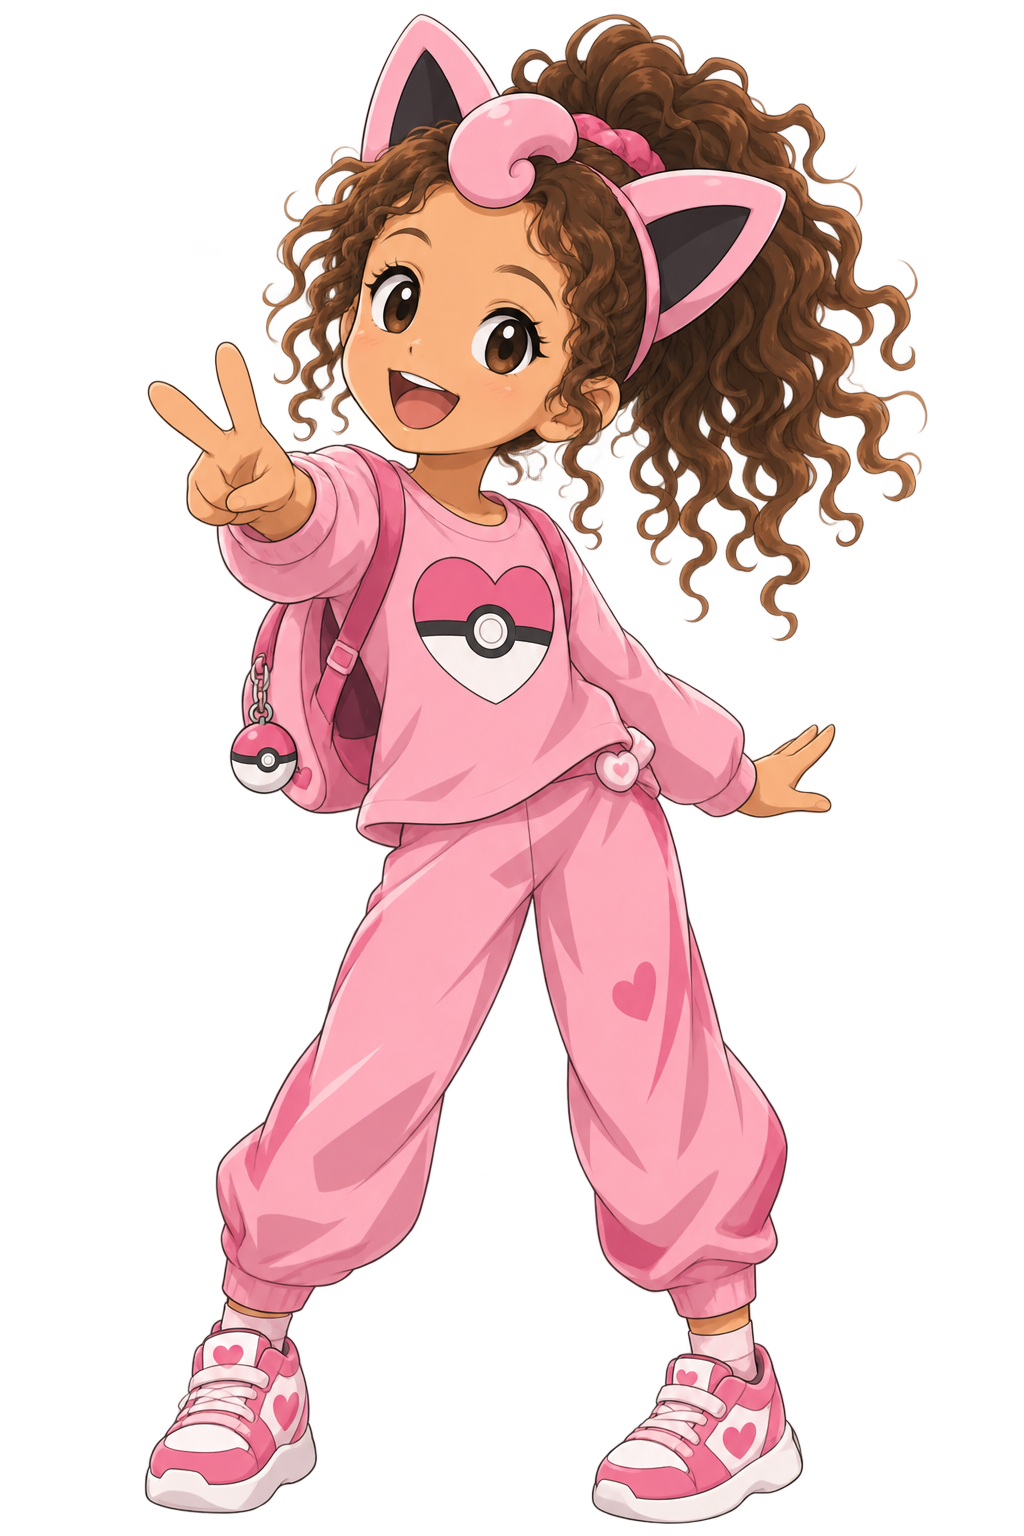
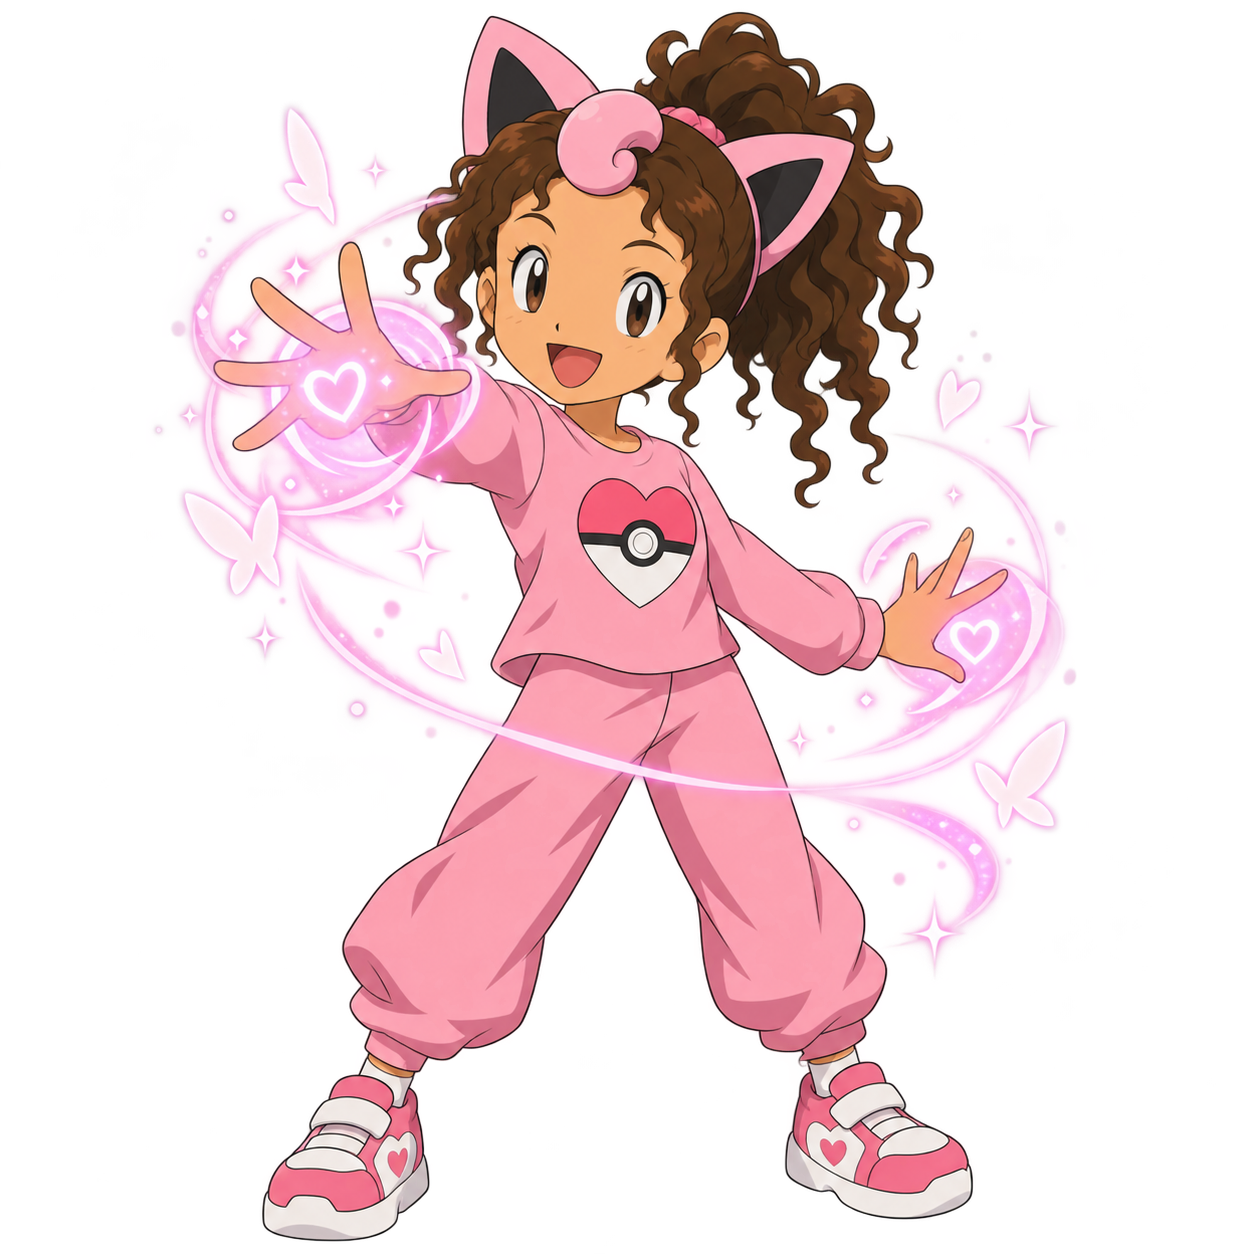
feat: add custom Pokémon "Alicia" and integrate into shop and Pokedex components

diff --git a/src/app/loja/Shop.jsx b/src/app/loja/Shop.jsx
@@ -20,9 +20,10 @@ import CoinBalance from "@/components/CoinBalance";
 import { celebratePokemonPurchase } from "@/lib/celebration";
 import ItemSprite from "@/components/ItemSprite/ItemSprite";
 import { preloadItemVisuals } from "@/lib/items/visuals";
+import { getCustomPokemon } from "@/lib/pokemon/customCatalog";
 
 const PAGE_SIZE = 12;
-const artwork = (pokemon) => pokemon?.sprites?.other?.["official-artwork"]?.front_default || pokemon?.sprites?.front_default || "/pokenull.png";
+const artwork = (pokemon) => pokemon?.artwork || pokemon?.image || pokemon?.sprites?.other?.["official-artwork"]?.front_default || pokemon?.sprites?.front_default || "/pokenull.png";
 const typesOf = (pokemon) => pokemon?.types?.map((item) => item.type?.name || item.name).filter(Boolean) || [];
 const Coin = () => <img className="coin-image" src="/coin.png" alt="" aria-hidden="true" />;
 
@@ -64,7 +65,7 @@ export default function Shop() {
   const dispatch = useDispatch(); const collection = useSelector((state) => state.pokemons.Pokedex) || []; const balance = useSelector((state) => state.economy.coins);
   const [query, setQuery] = useState(""); const [items, setItems] = useState([]); const [catalog, setCatalog] = useState([]); const [loading, setLoading] = useState(true); const [catalogError, setCatalogError] = useState(false); const [rarity, setRarity] = useState("all"); const [sort, setSort] = useState("number"); const [page, setPage] = useState(1); const [purchase, setPurchase] = useState(null); const [feedback, setFeedback] = useState(null); const [shopTab, setShopTab] = useState("pokemon"); const [upgradeCategory, setUpgradeCategory] = useState("all"); const [economy, setEconomy] = useState({ inventory: {}, ownedTms: [] }); const cache = useRef(new Map()); const results = useRef(null);
   const searching = Boolean(query.trim());
-  const loadPokemon = async (name) => { const key = name.trim().toLowerCase(); if (cache.current.has(key)) return cache.current.get(key); const response = await fetch(`https://pokeapi.co/api/v2/pokemon/${encodeURIComponent(key)}`); if (!response.ok) throw new Error("not-found"); const pokemon = await enrichPokemonRarity(await response.json()); cache.current.set(key, pokemon); return pokemon; };
+  const loadPokemon = async (name) => { const key = name.trim().toLowerCase(); if (cache.current.has(key)) return cache.current.get(key); const custom = getCustomPokemon(key); if (custom) { cache.current.set(key, custom); return custom; } const response = await fetch(`https://pokeapi.co/api/v2/pokemon/${encodeURIComponent(key)}`); if (!response.ok) throw new Error("not-found"); const pokemon = await enrichPokemonRarity(await response.json()); cache.current.set(key, pokemon); return pokemon; };
   useEffect(() => { webStore.getData("Pokedex").then((data) => dispatch(actAddPokedex(data))); webStore.getEconomy().then((data) => { setEconomy(data); dispatch(actCoins(data.coins)); }); }, [dispatch]);
   useEffect(() => { void preloadItemVisuals(SHOP_UPGRADES.map((upgrade) => upgrade.id)); }, []);
   useEffect(() => { let active = true; getShopCatalog().then((data) => active && setCatalog(data)).catch(() => active && setCatalogError(true)); return () => { active = false; }; }, []);

diff --git a/src/lib/pokemon/customCatalog.js b/src/lib/pokemon/customCatalog.js
@@ -1,0 +1,43 @@
+// Local Pokémon are normalized to the same shape consumed by collection, shop
+// and battle. `source` prevents resolvers from requesting an absent PokeAPI id.
+export const ALICIA = Object.freeze({
+  id: 10001,
+  customId: "alicia",
+  source: "custom",
+  name: "alicia",
+  displayName: "Alicia",
+  rarity: "legendary",
+  isLegendary: true,
+  isMythical: false,
+  isCustom: true,
+  type: "fairy",
+  types: [{ slot: 1, type: { name: "fairy" } }],
+  weaknesses: ["poison", "steel"],
+  height: 5,
+  weight: 230,
+  artwork: "/pokemons/alicia.png",
+  image: "/pokemons/alicia.png",
+  base_experience: 340,
+  stats: [
+    { base_stat: 150, stat: { name: "hp" } },
+    { base_stat: 145, stat: { name: "attack" } },
+    { base_stat: 135, stat: { name: "defense" } },
+    { base_stat: 160, stat: { name: "special-attack" } },
+    { base_stat: 145, stat: { name: "special-defense" } },
+    { base_stat: 130, stat: { name: "speed" } },
+  ],
+  ability: "quatro-elementos",
+  moveset: [
+    { id: "luz-encantada", name: "Luz Encantada", type: "fairy", power: 100, accuracy: 100, damageClass: "special", special: true },
+    { id: "raio-lendario", name: "Raio Lendário", type: "electric", power: 82, accuracy: 100, damageClass: "special", special: false },
+    { id: "chama-celestial", name: "Chama Celestial", type: "fire", power: 84, accuracy: 100, damageClass: "special", special: false },
+    { id: "gelo-estelar", name: "Gelo Estelar", type: "ice", power: 84, accuracy: 100, damageClass: "special", special: false },
+  ],
+});
+
+export const CUSTOM_POKEMON_CATALOG = Object.freeze([ALICIA]);
+
+export function getCustomPokemon(identifier) {
+  const value = String(identifier || "").toLowerCase();
+  return CUSTOM_POKEMON_CATALOG.find((pokemon) => String(pokemon.id) === value || pokemon.name === value || pokemon.customId === value) || null;
+}

diff --git a/src/redux/pokemons/index.js b/src/redux/pokemons/index.js
@@ -5,6 +5,7 @@ import axios from "axios";
 import { Block, Loading, Notify } from "notiflix";
 import { enrichPokemonRarity } from "@/lib/pokemon/rarity";
 import { celebratePokemonCapture } from "@/lib/celebration";
+import { getCustomPokemon } from "@/lib/pokemon/customCatalog";
 
 //Estado inicial
 const initialState = {
@@ -31,6 +32,13 @@ export const getPokemon = (pokemon) => {
       svgSize: "120px",
       svgColor: "#fff",
     });
+    const custom = getCustomPokemon(pokemon);
+    if (custom) {
+      dispatch(actPokemon(custom));
+      dispatch(actOpenCardPokemon(true));
+      Loading.remove();
+      return;
+    }
     axios
       .get(`https://pokeapi.co/api/v2/pokemon/${pokemon}`)
       .then(async (resp) => {
@@ -136,6 +144,11 @@ export const getTypesPokemons = (type) => {
 
 export const getPokemonWeaknesses = (pokemonName) => {
   return async (dispatch) => {
+    const custom = getCustomPokemon(pokemonName);
+    if (custom) {
+      dispatch(actWeaknesses(custom.weaknesses || []));
+      return custom.weaknesses || [];
+    }
     axios
       .get(`https://pokeapi.co/api/v2/pokemon/${pokemonName}`)
       .then((pokemonResponse) => {

diff --git a/src/components/CardAddPokemon/index.jsx b/src/components/CardAddPokemon/index.jsx
@@ -23,6 +23,7 @@ import ReactParallaxTilt from "react-parallax-tilt";
 import PokemonRarity, { getRarityClassName } from "@/components/PokemonRarity";
 import PokemonTypeIcon from "@/components/PokemonTypeIcon";
 import { getPokemonRarityPresentation } from "@/lib/pokemon/rarity";
+import { getPokemonSprite, SPRITE_CONTEXT } from "@/lib/pokemon/sprites";
 
 export default function CardAddPokemon({ pokemon }) {
   const dispatch = useDispatch();
@@ -93,11 +94,7 @@ export default function CardAddPokemon({ pokemon }) {
         draggable={false}
         width="220"
         className="card-pokemon-img"
-        src={
-          pokemon.sprites.other["official-artwork"].front_default
-            ? pokemon.sprites.other["official-artwork"].front_default
-            : "/pokenull.png"
-        }
+        src={getPokemonSprite({ pokemon, context: SPRITE_CONTEXT.GENERAL })}
         alt="Pokémon selecionado"
       />
       {rarity.rarity !== "normal" && <div className={`rarity-capture-reveal ${rarity.className}`} role="status"><PokemonRarity pokemon={pokemon} /><strong>Pokémon {rarity.label}!</strong></div>}

diff --git a/src/app/pokedex/PokedexExplorer.jsx b/src/app/pokedex/PokedexExplorer.jsx
@@ -26,13 +26,10 @@ import PokemonRarity, { getRarityClassName } from "@/components/PokemonRarity";
 import CoinBalance from "@/components/CoinBalance";
 import PokemonPagination from "@/components/PokemonPagination";
 import useThreeRowPagination from "@/hooks/useThreeRowPagination";
+import { getPokemonSprite, SPRITE_CONTEXT } from "@/lib/pokemon/sprites";
 
 function getArtwork(pokemon) {
-  return (
-    pokemon?.sprites?.other?.["official-artwork"]?.front_default ||
-    pokemon?.sprites?.other?.home?.front_default ||
-    "/pokenull.png"
-  );
+  return getPokemonSprite({ pokemon, context: SPRITE_CONTEXT.GENERAL });
 }
 
 function Ball({ size = 24 }) {

diff --git a/src/lib/pokemon/shopCatalog.js b/src/lib/pokemon/shopCatalog.js
@@ -1,4 +1,5 @@
 import { POKEMON_RARITY } from "./rarity";
+import { CUSTOM_POKEMON_CATALOG } from "./customCatalog";
 
 const DATA_URL = "https://raw.githubusercontent.com/PokeAPI/pokeapi/master/data/v2/csv";
 let catalogRequest;
@@ -39,7 +40,8 @@ function createCatalog([pokemonCsv, speciesCsv, statsCsv]) {
         stats: stats.get(Number(item.id)) || [],
       };
     })
-    .filter((pokemon) => pokemon.id && pokemon.name && pokemon.stats.length);
+    .filter((pokemon) => pokemon.id && pokemon.name && pokemon.stats.length)
+    .concat(CUSTOM_POKEMON_CATALOG);
 }
 
 export function getShopCatalog() {
